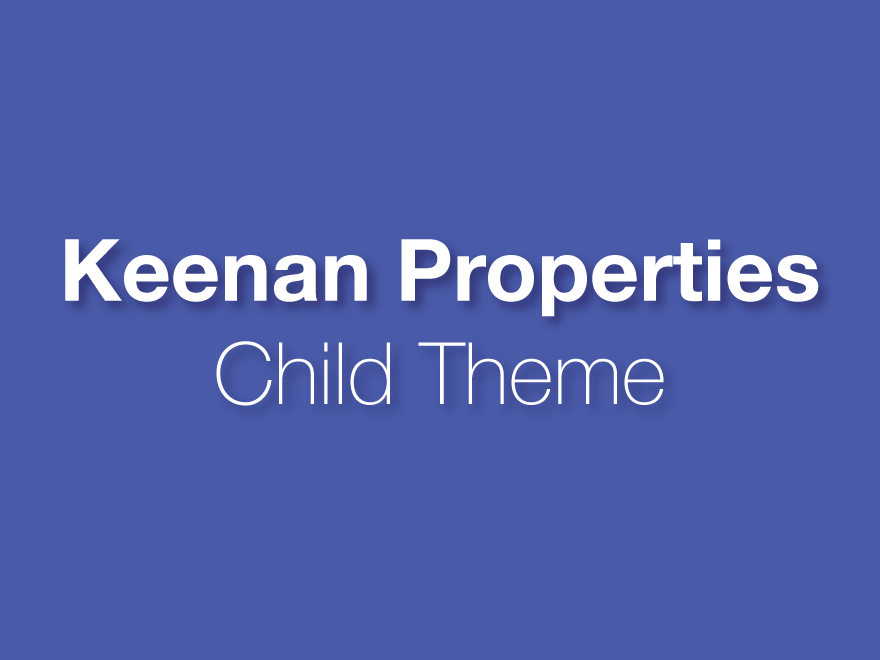
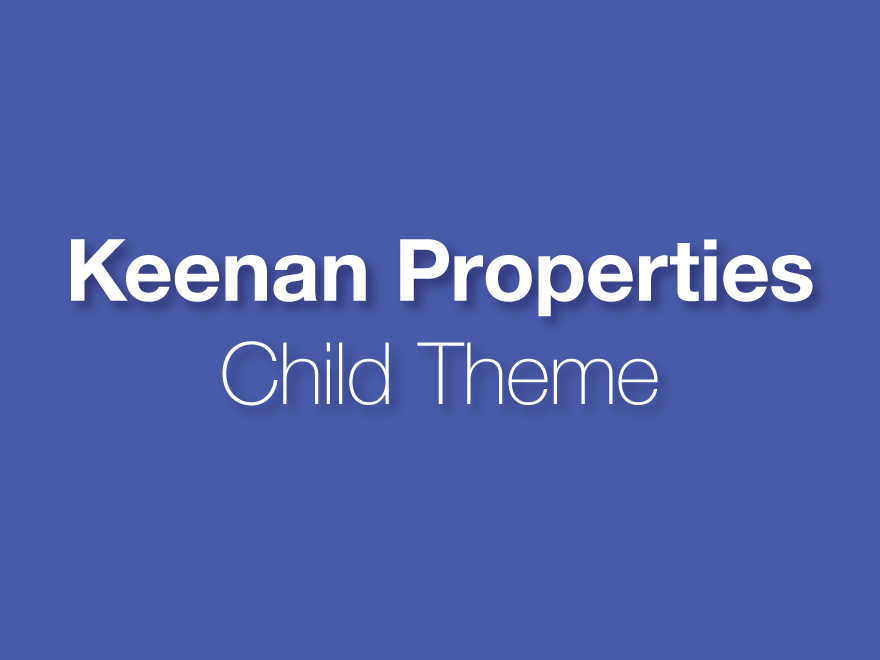
Added screenshot, re-added slider styles, refactored

diff --git a/assets/scss/partials/_ridx_slider.scss b/assets/scss/partials/_ridx_slider.scss
@@ -1,13 +1,7 @@
-.widget_promoted_listings_widget .slider-wrapper {
-    margin-top: 1em;
-    margin-bottom: 1em;
-}
-
 .widget_promoted_listings_widget .bx-wrapper {
     max-width: 100% !important;
     .bx-viewport {
         height: 270px !important;
-        margin-bottom: 0;
     }
 }
 
@@ -51,8 +45,6 @@
     width: 100%;
     height: 100%;
     top: 0;
-    left: 0;
-    overflow: hidden;
     opacity: 0;
     padding: 5px 10px;
     background: fade-out($brand-second, 0.15);
@@ -65,43 +57,6 @@
     z-index: 9999;
     .open_house_flag {
         display: none;
-    }
-}
-
-.widget_promoted_listings_widget .bx-wrapper .listing-slider-title {
-    overflow: hidden;
-    font-size: 18px;
-    font-weight: 700;
-    text-align: center;
-    text-overflow: ellipsis;
-    white-space: nowrap;
-}
-
-.widget_promoted_listings_widget .bx-wrapper .idx-result-snippet {
-    .idx-result-snippet-wrapper {
-        margin: 0;
-        padding: 0;
-        .listing-top-title {
-            display: none;
-        }
-        .listing-slider-title {
-            display: block;
-        }
-    }
-}
-
-.widget_promoted_listings_widget .bx-wrapper .idx-grid {
-    .idx-result-snippet-wrapper .photo-wrap {
-        height: 270px !important;
-        min-height: 0 !important;
-        overflow: hidden;
-        img.main-photo {
-            max-width: none;
-            min-height: 0 !important;
-            margin-left: -75px;
-            margin-top: -50px;
-            width: 200% !important;
-        }
     }
 }
 

diff --git a/assets/scss/partials/_homepage.scss b/assets/scss/partials/_homepage.scss
@@ -8,6 +8,9 @@
 
 .blvd-home-widgets.row {
     margin-top: 70rem;
+    @media(min-width: $screen-lg) {
+        margin-top: 75rem;
+    }
 }
 
 /*
@@ -68,7 +71,3 @@ h3.custom-cta {
 /*
  * END $cta-styles
  */
-
-.slider-wrapper.loading {
-    // height: initial;
-}
